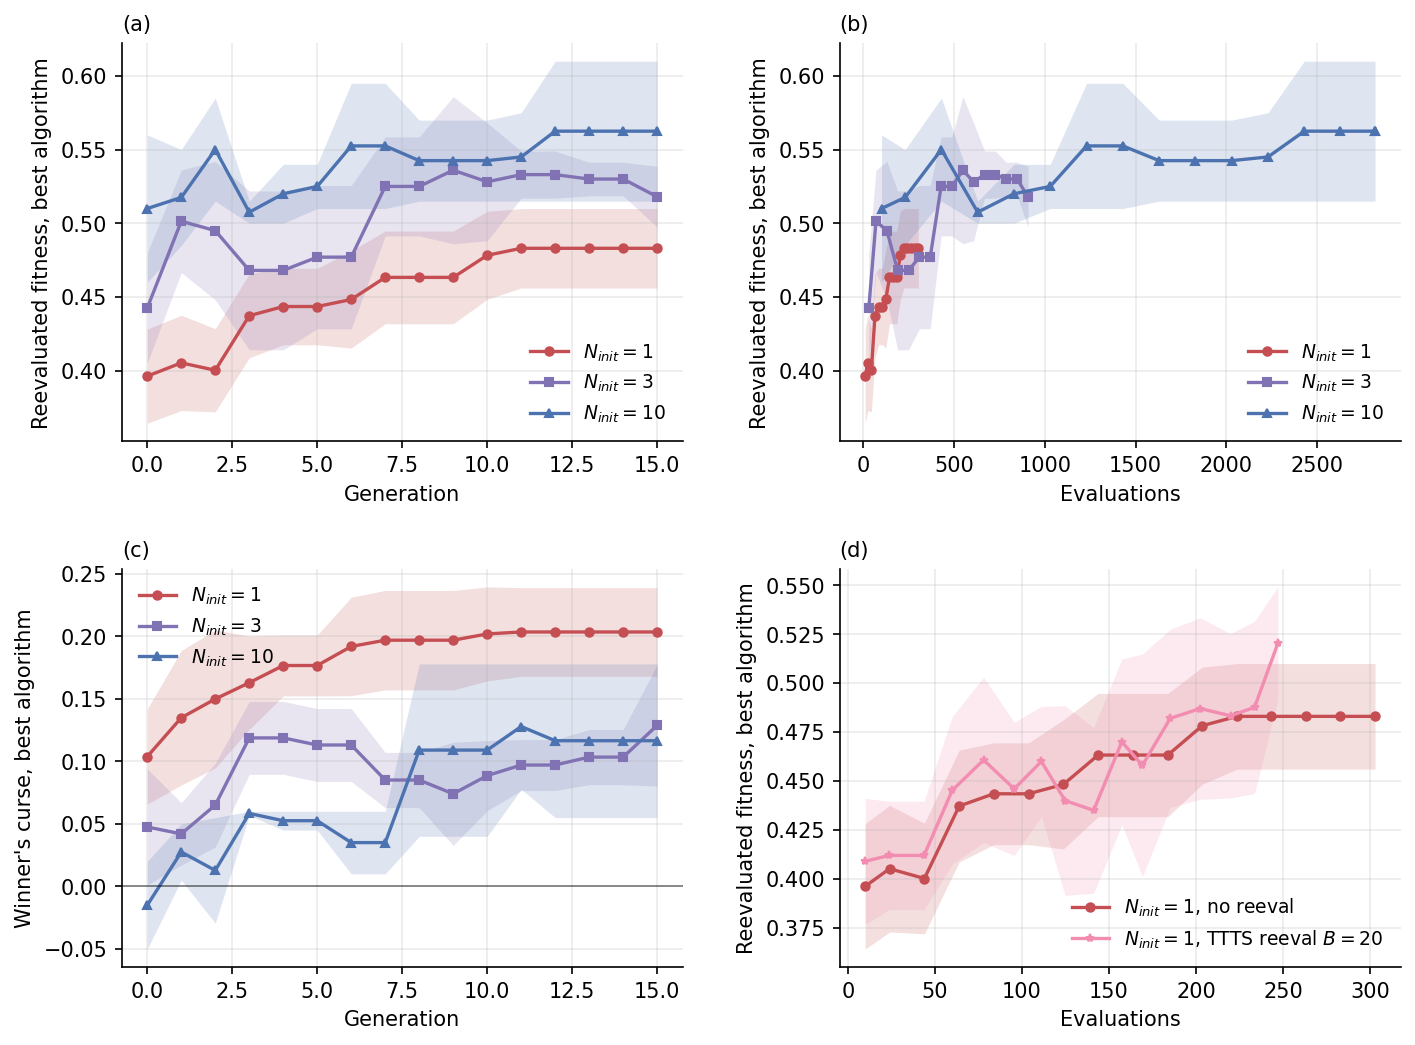
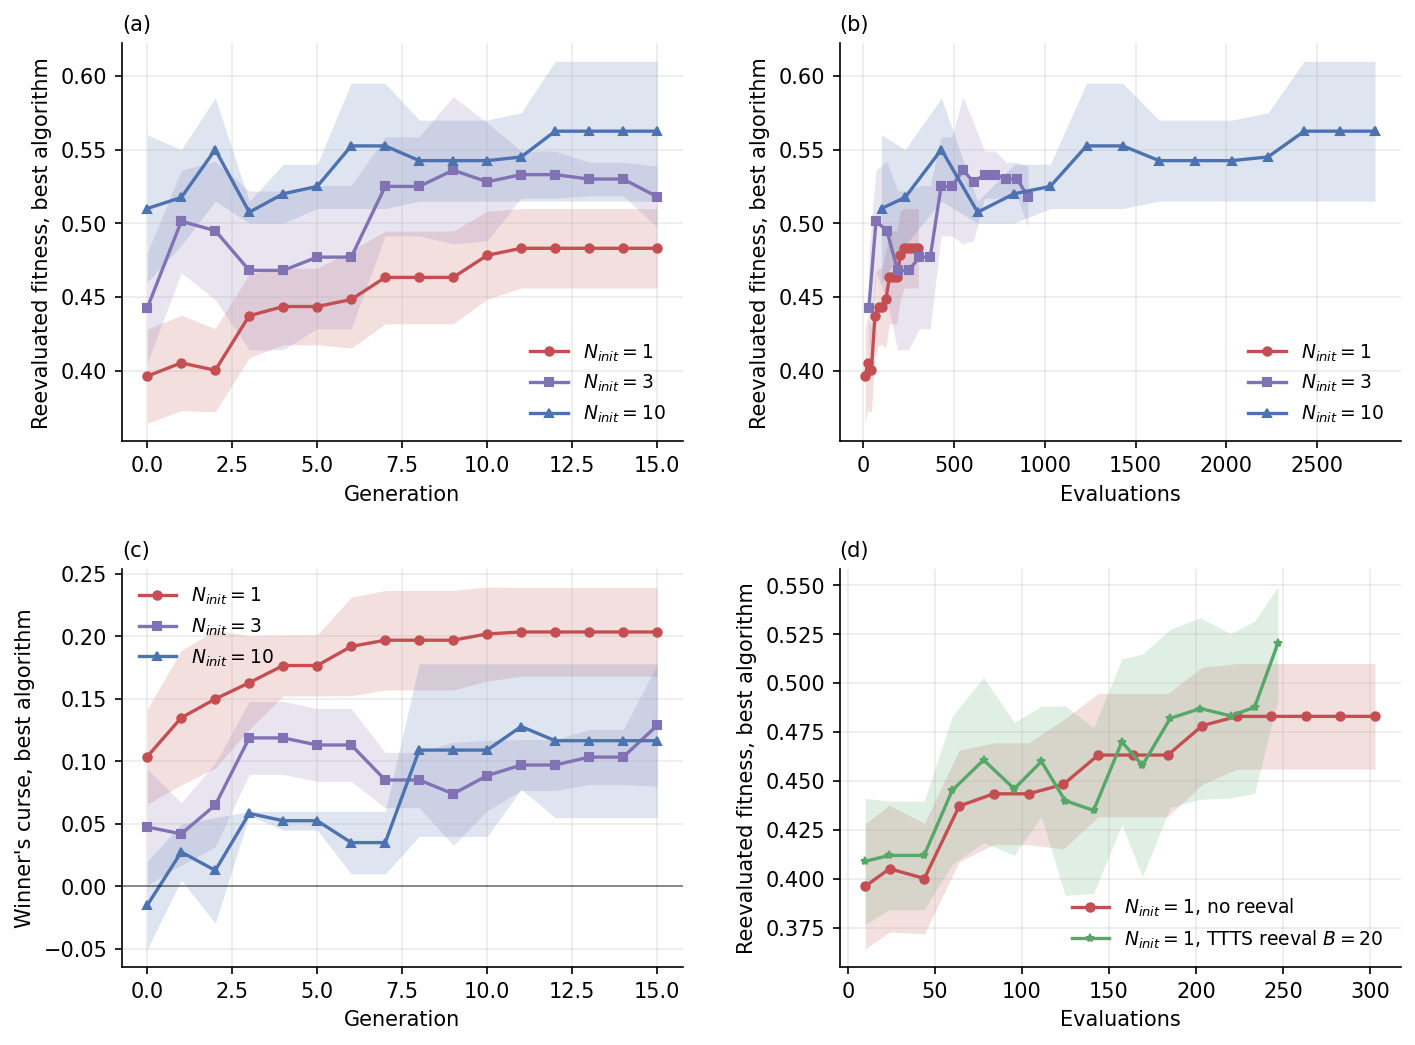
Green for TTTS reeval curve

Changed region(s): [[0.5908, 0.5818, 0.9018, 0.888], [0.7463, 0.888, 0.7774, 0.9187]]

diff --git a/figures/plot_n1_n3_n10_reeval_train.py b/figures/plot_n1_n3_n10_reeval_train.py
@@ -25,7 +25,7 @@ REPO = Path(__file__).resolve().parents[1]
 sys.path.insert(0, str(REPO / "scripts"))
 import plot_eval_axis_comparison as pe  # noqa: E402
 
-C1, C3, C10, CS = "#c44e52", "#8172b3", "#4c72b0", "#f28cb1"  # red, purple, blue, pink
+C1, C3, C10, CS = "#c44e52", "#8172b3", "#4c72b0", "#55a868"  # red, purple, blue, green
 N1 = [89281, 825769, 825773, 825777, 825781]
 N3 = [89282, 825770, 825774, 825778, 825782]
 N10 = [568245, 568246]
